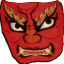
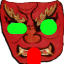
Hooked up some placeholder (suck, blow)

Changed region(s): [[0.625, 0.2812, 0.9062, 0.5625], [0.4062, 0.7188, 0.6562, 1.0], [0.0938, 0.3438, 0.4375, 0.5312]]

diff --git a/fujin.cpp b/fujin.cpp
@@ -209,6 +209,7 @@ Fujin::doUpdate( float dt )
 	{
 		m_isBlowing=false;
 		breath->Stop();
+        m_sprite = Engine::rm()->GetSprite( "fujin" );
 	}
 
     if ( breath->GetParticlesAlive() > 0 )
@@ -280,6 +281,15 @@ float Fujin::lookAt( const b2Vec2& targetPoint )
 
 void Fujin::Blow( float power )
 {
+    if ( power > 0.0f )
+    {
+        m_sprite = Engine::rm()->GetSprite( "fujin_blow" );
+    }
+    else
+    {
+        m_sprite = Engine::rm()->GetSprite( "fujin_suck" );
+    }
+
     b2Vec2 position( m_body->GetPosition() );
 
 	m_AABB.lowerBound= b2Vec2(position.x-200.0f*m_scale,
